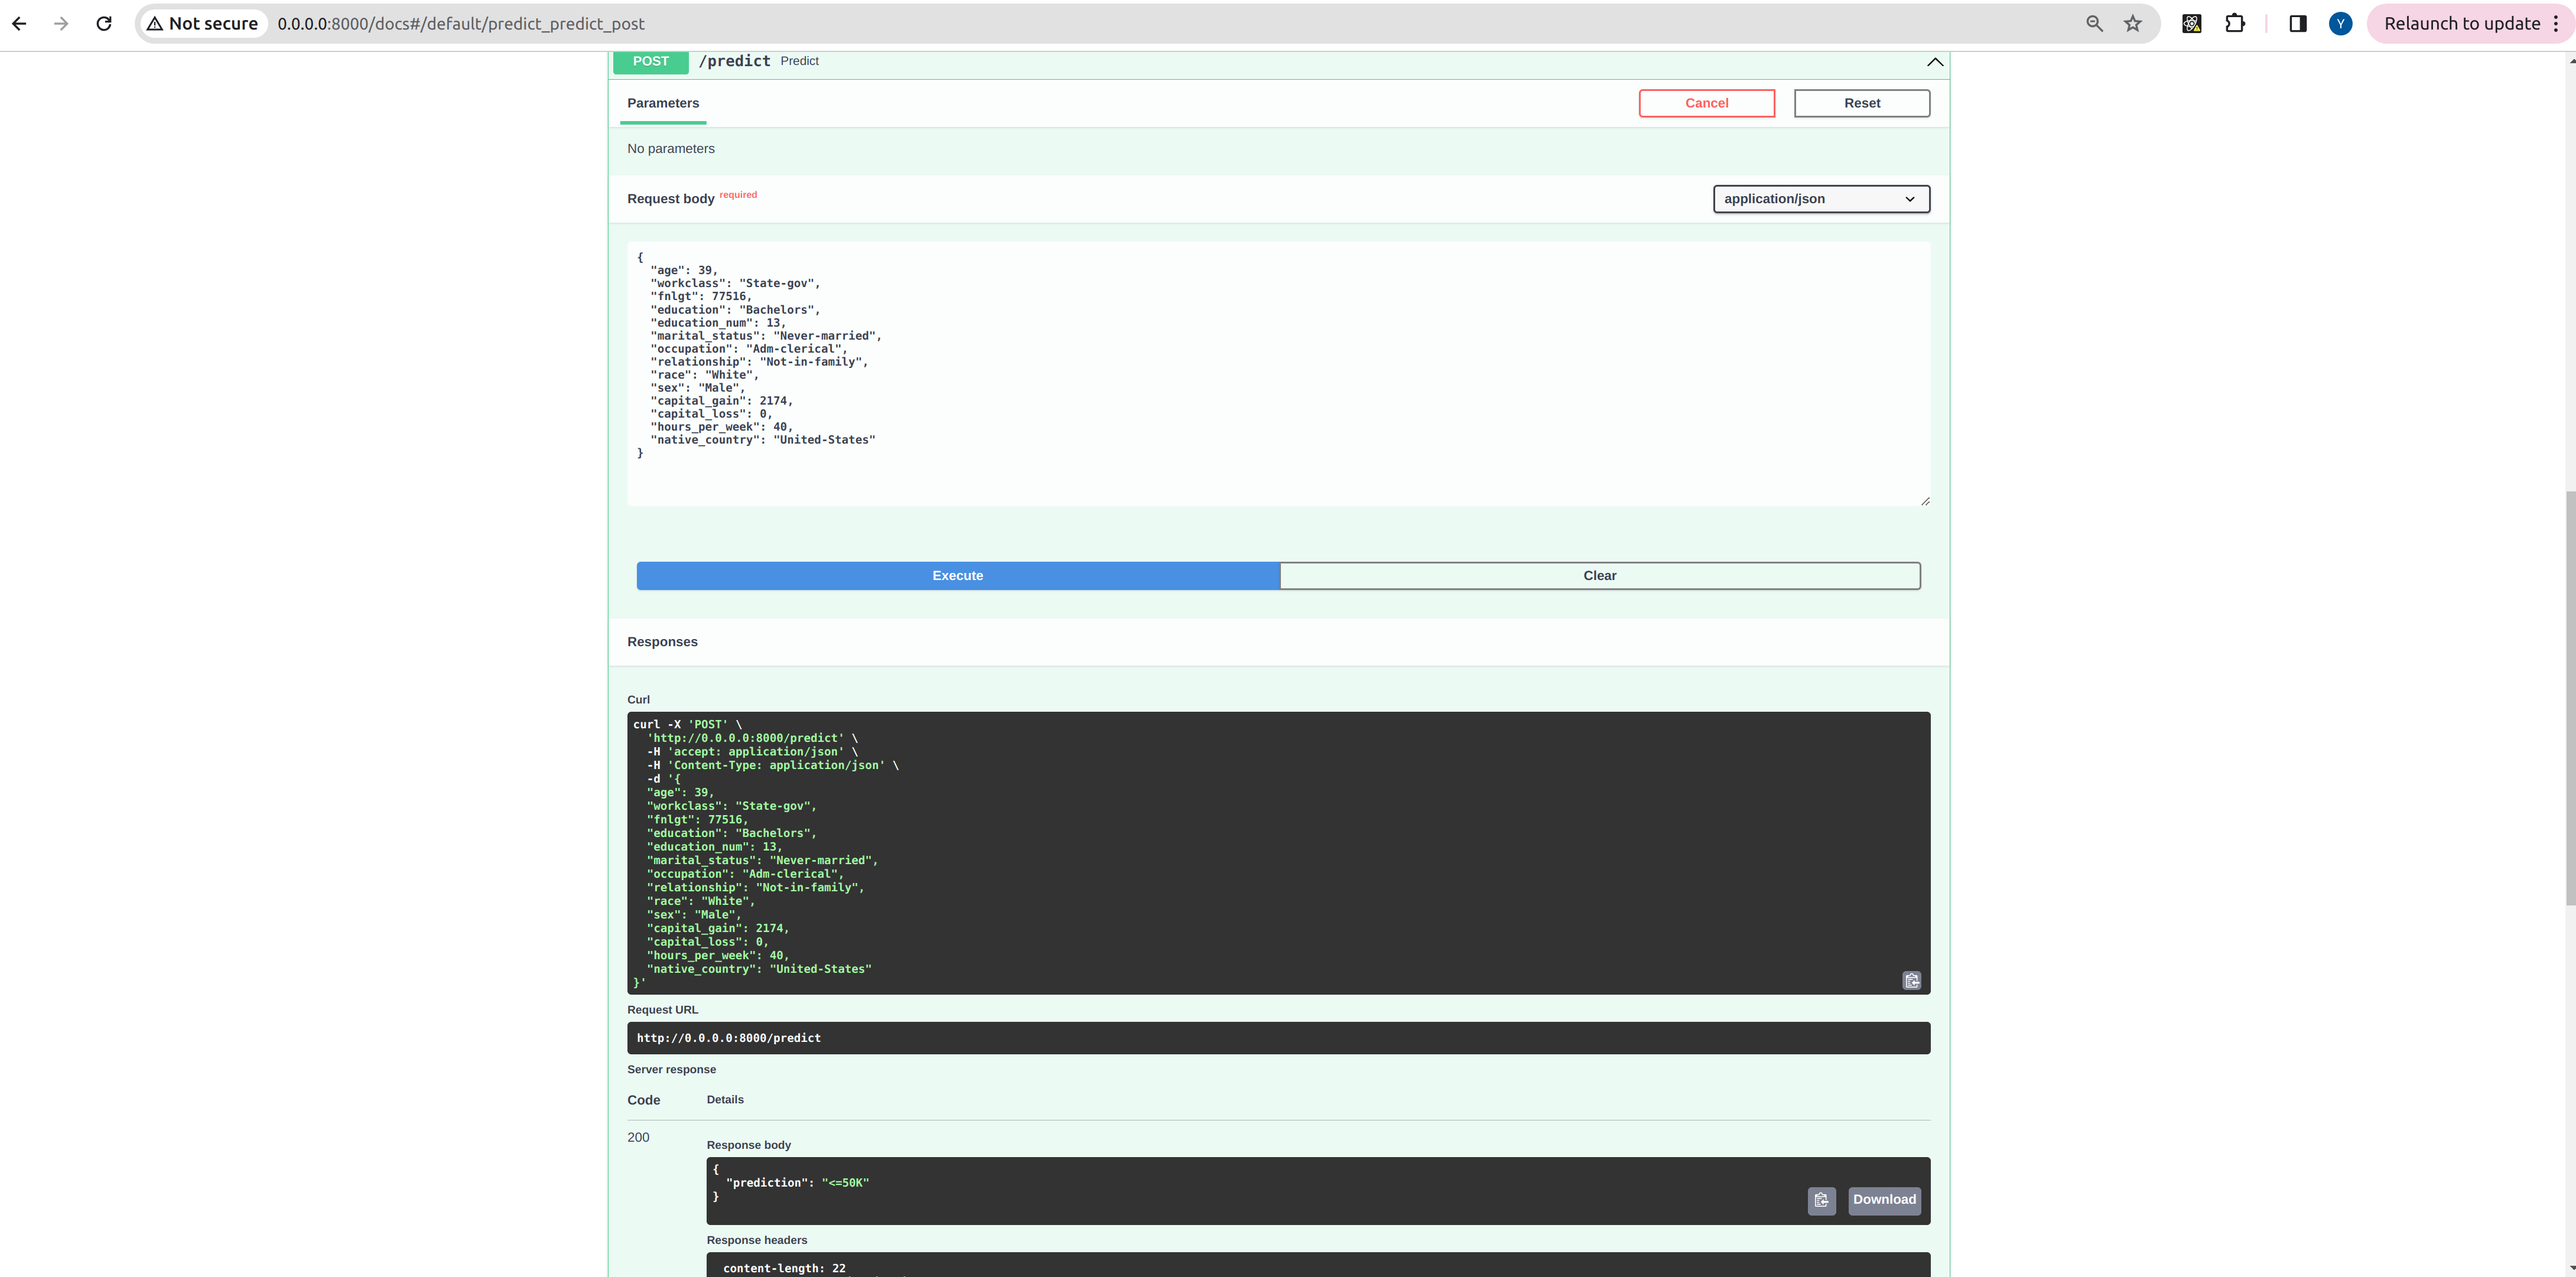
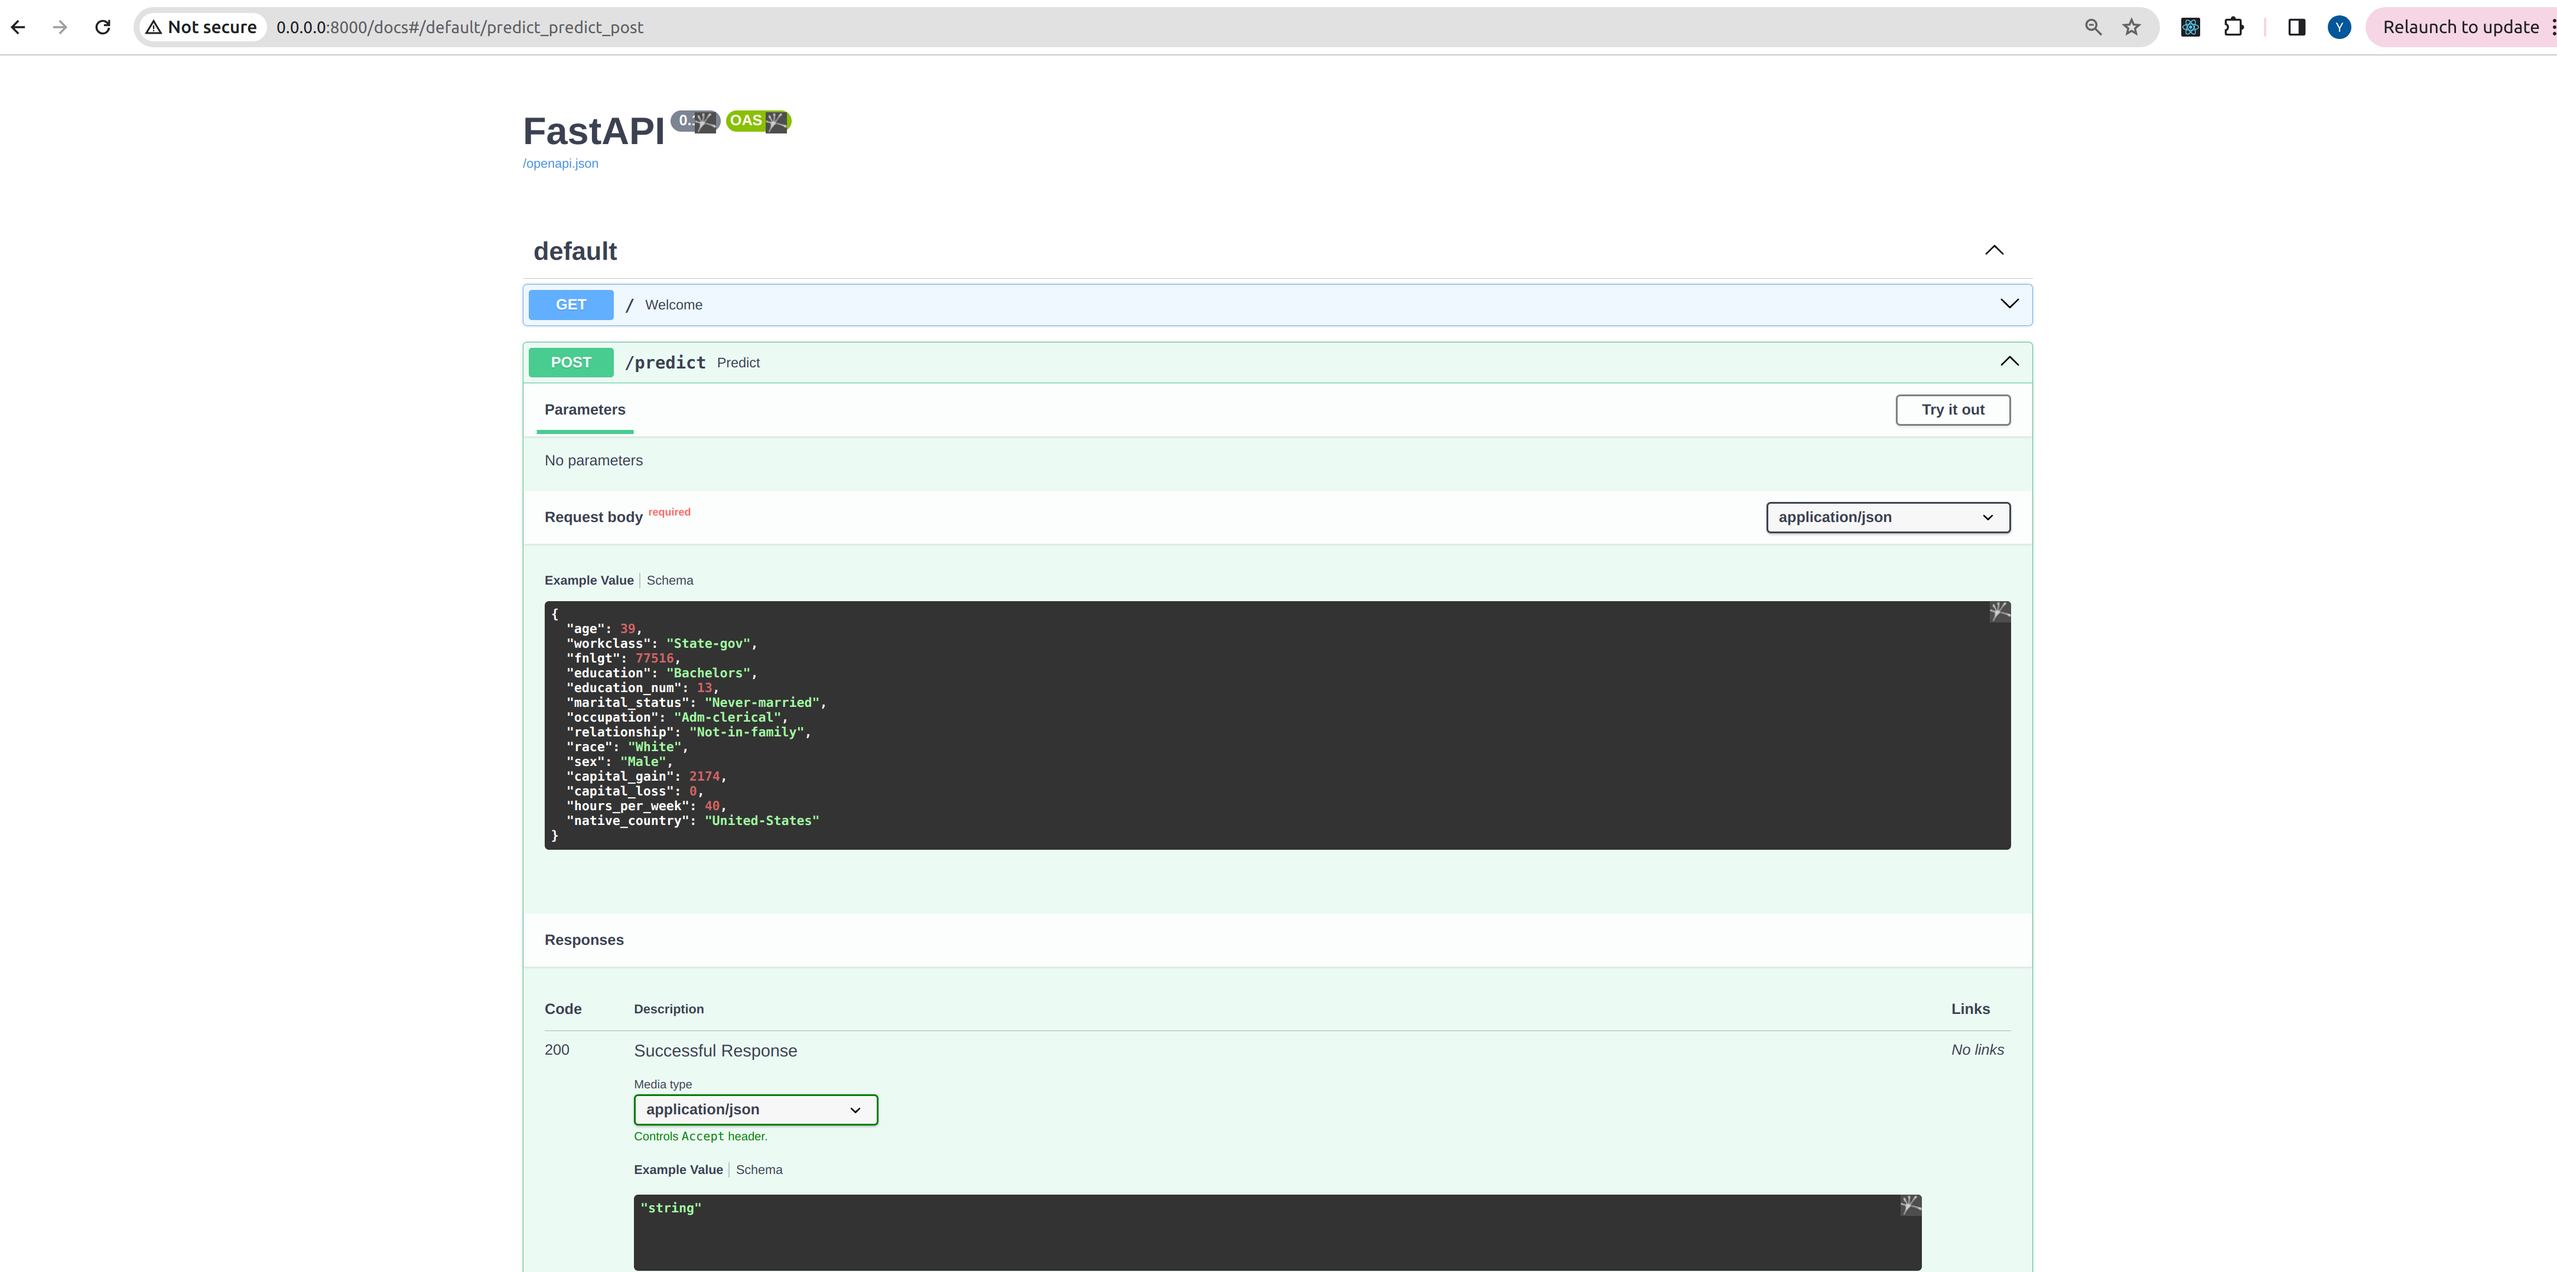
LC: added example values in schema

diff --git a/starter/main.py b/starter/main.py
@@ -49,6 +49,28 @@ class InputData(BaseModel):
     hours_per_week: int
     native_country: str
 
+    class Config:
+        schema_extra = {
+            "examples": [
+                {
+                    "age": 39,
+                    "workclass": "State-gov",
+                    "fnlgt": 77516,
+                    "education": "Bachelors",
+                    "education_num": 13,
+                    "marital_status": "Never-married",
+                    "occupation": "Adm-clerical",
+                    "relationship": "Not-in-family",
+                    "race": "White",
+                    "sex": "Male",
+                    "capital_gain": 2174,
+                    "capital_loss": 0,
+                    "hours_per_week": 40,
+                    "native_country": "United-States",
+                }
+            ]
+        }
+
 
 # Mock model inference function
 def predict_salary(data: InputData) -> str:
